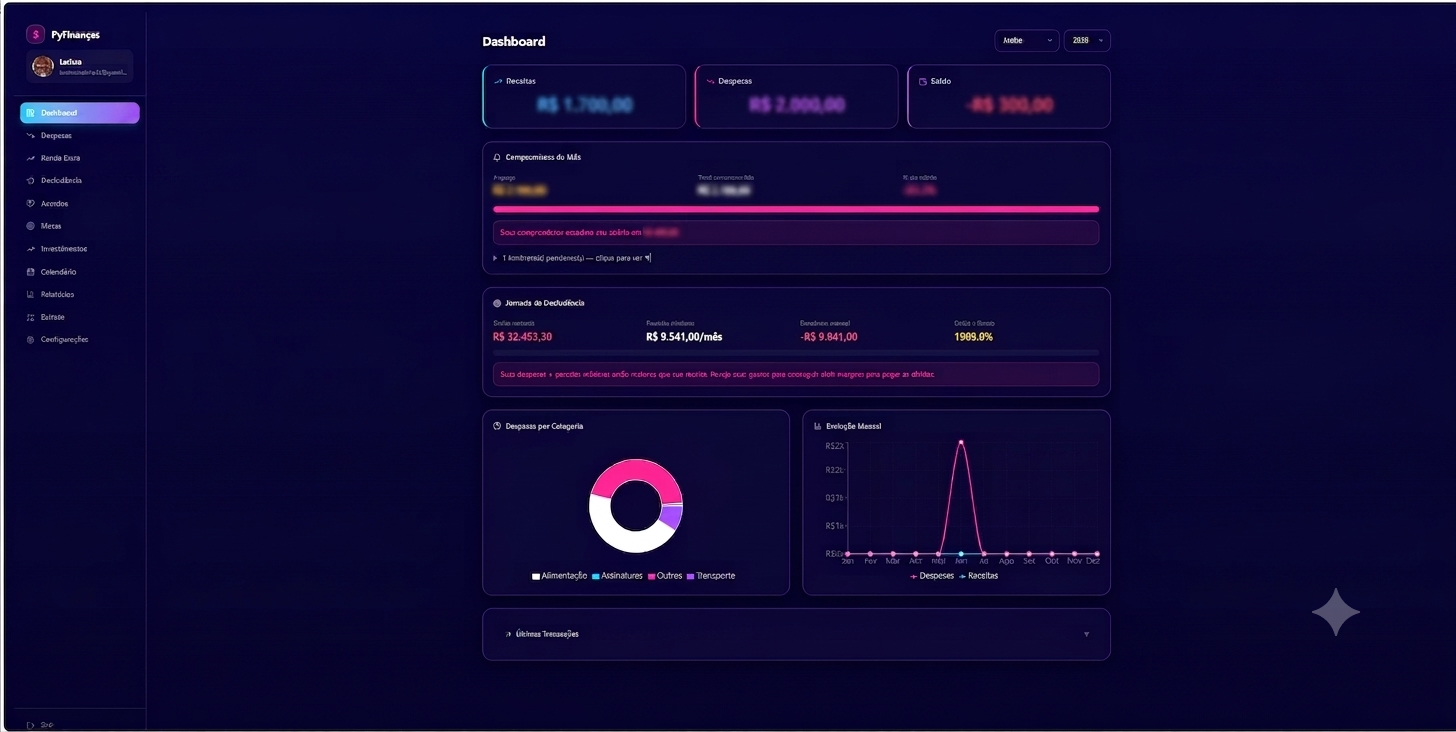
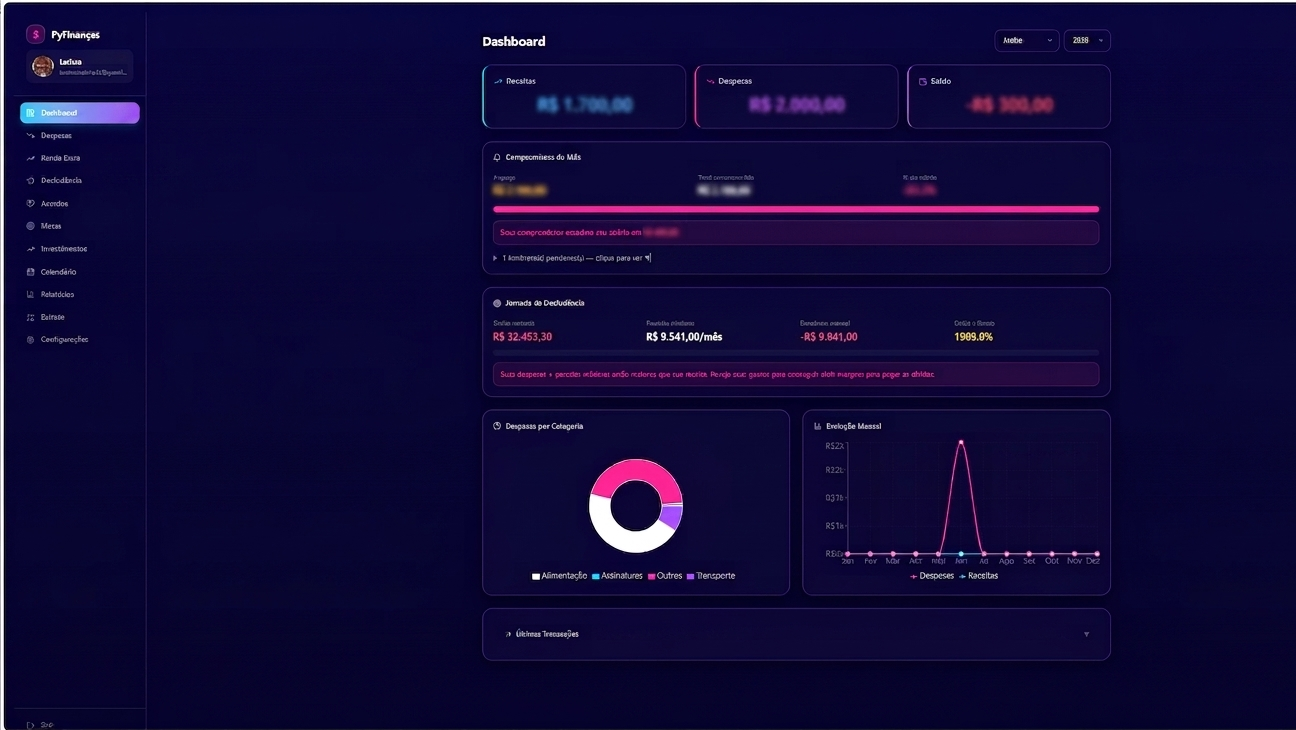
fix: iguala tamanho das imagens do PyFinanças ao expandir

diff --git a/style.css b/style.css
@@ -931,24 +931,26 @@ h2 i {
     display: flex;
     justify-content: center;
     gap: 15px;
-    align-items: flex-start;
+    align-items: center;
     width: 100%;
     max-width: 100%;
     padding: 15px 0;
 }
 
 .expandido .expand-top .foto-HamburgueriaZ .foto-expandida {
-    width: auto;
+    width: calc((100% - 15px) / 2);
     max-width: calc((100% - 15px) / 2);
     max-height: 400px;
+    height: auto;
     object-fit: contain;
     margin: 0;
 }
 
 .expandido .expand-top .foto-PyFinancas .foto-expandida {
-    width: auto;
+    width: calc((100% - 15px) / 2);
     max-width: calc((100% - 15px) / 2);
     max-height: 400px;
+    height: auto;
     object-fit: contain;
     margin: 0;
 }
